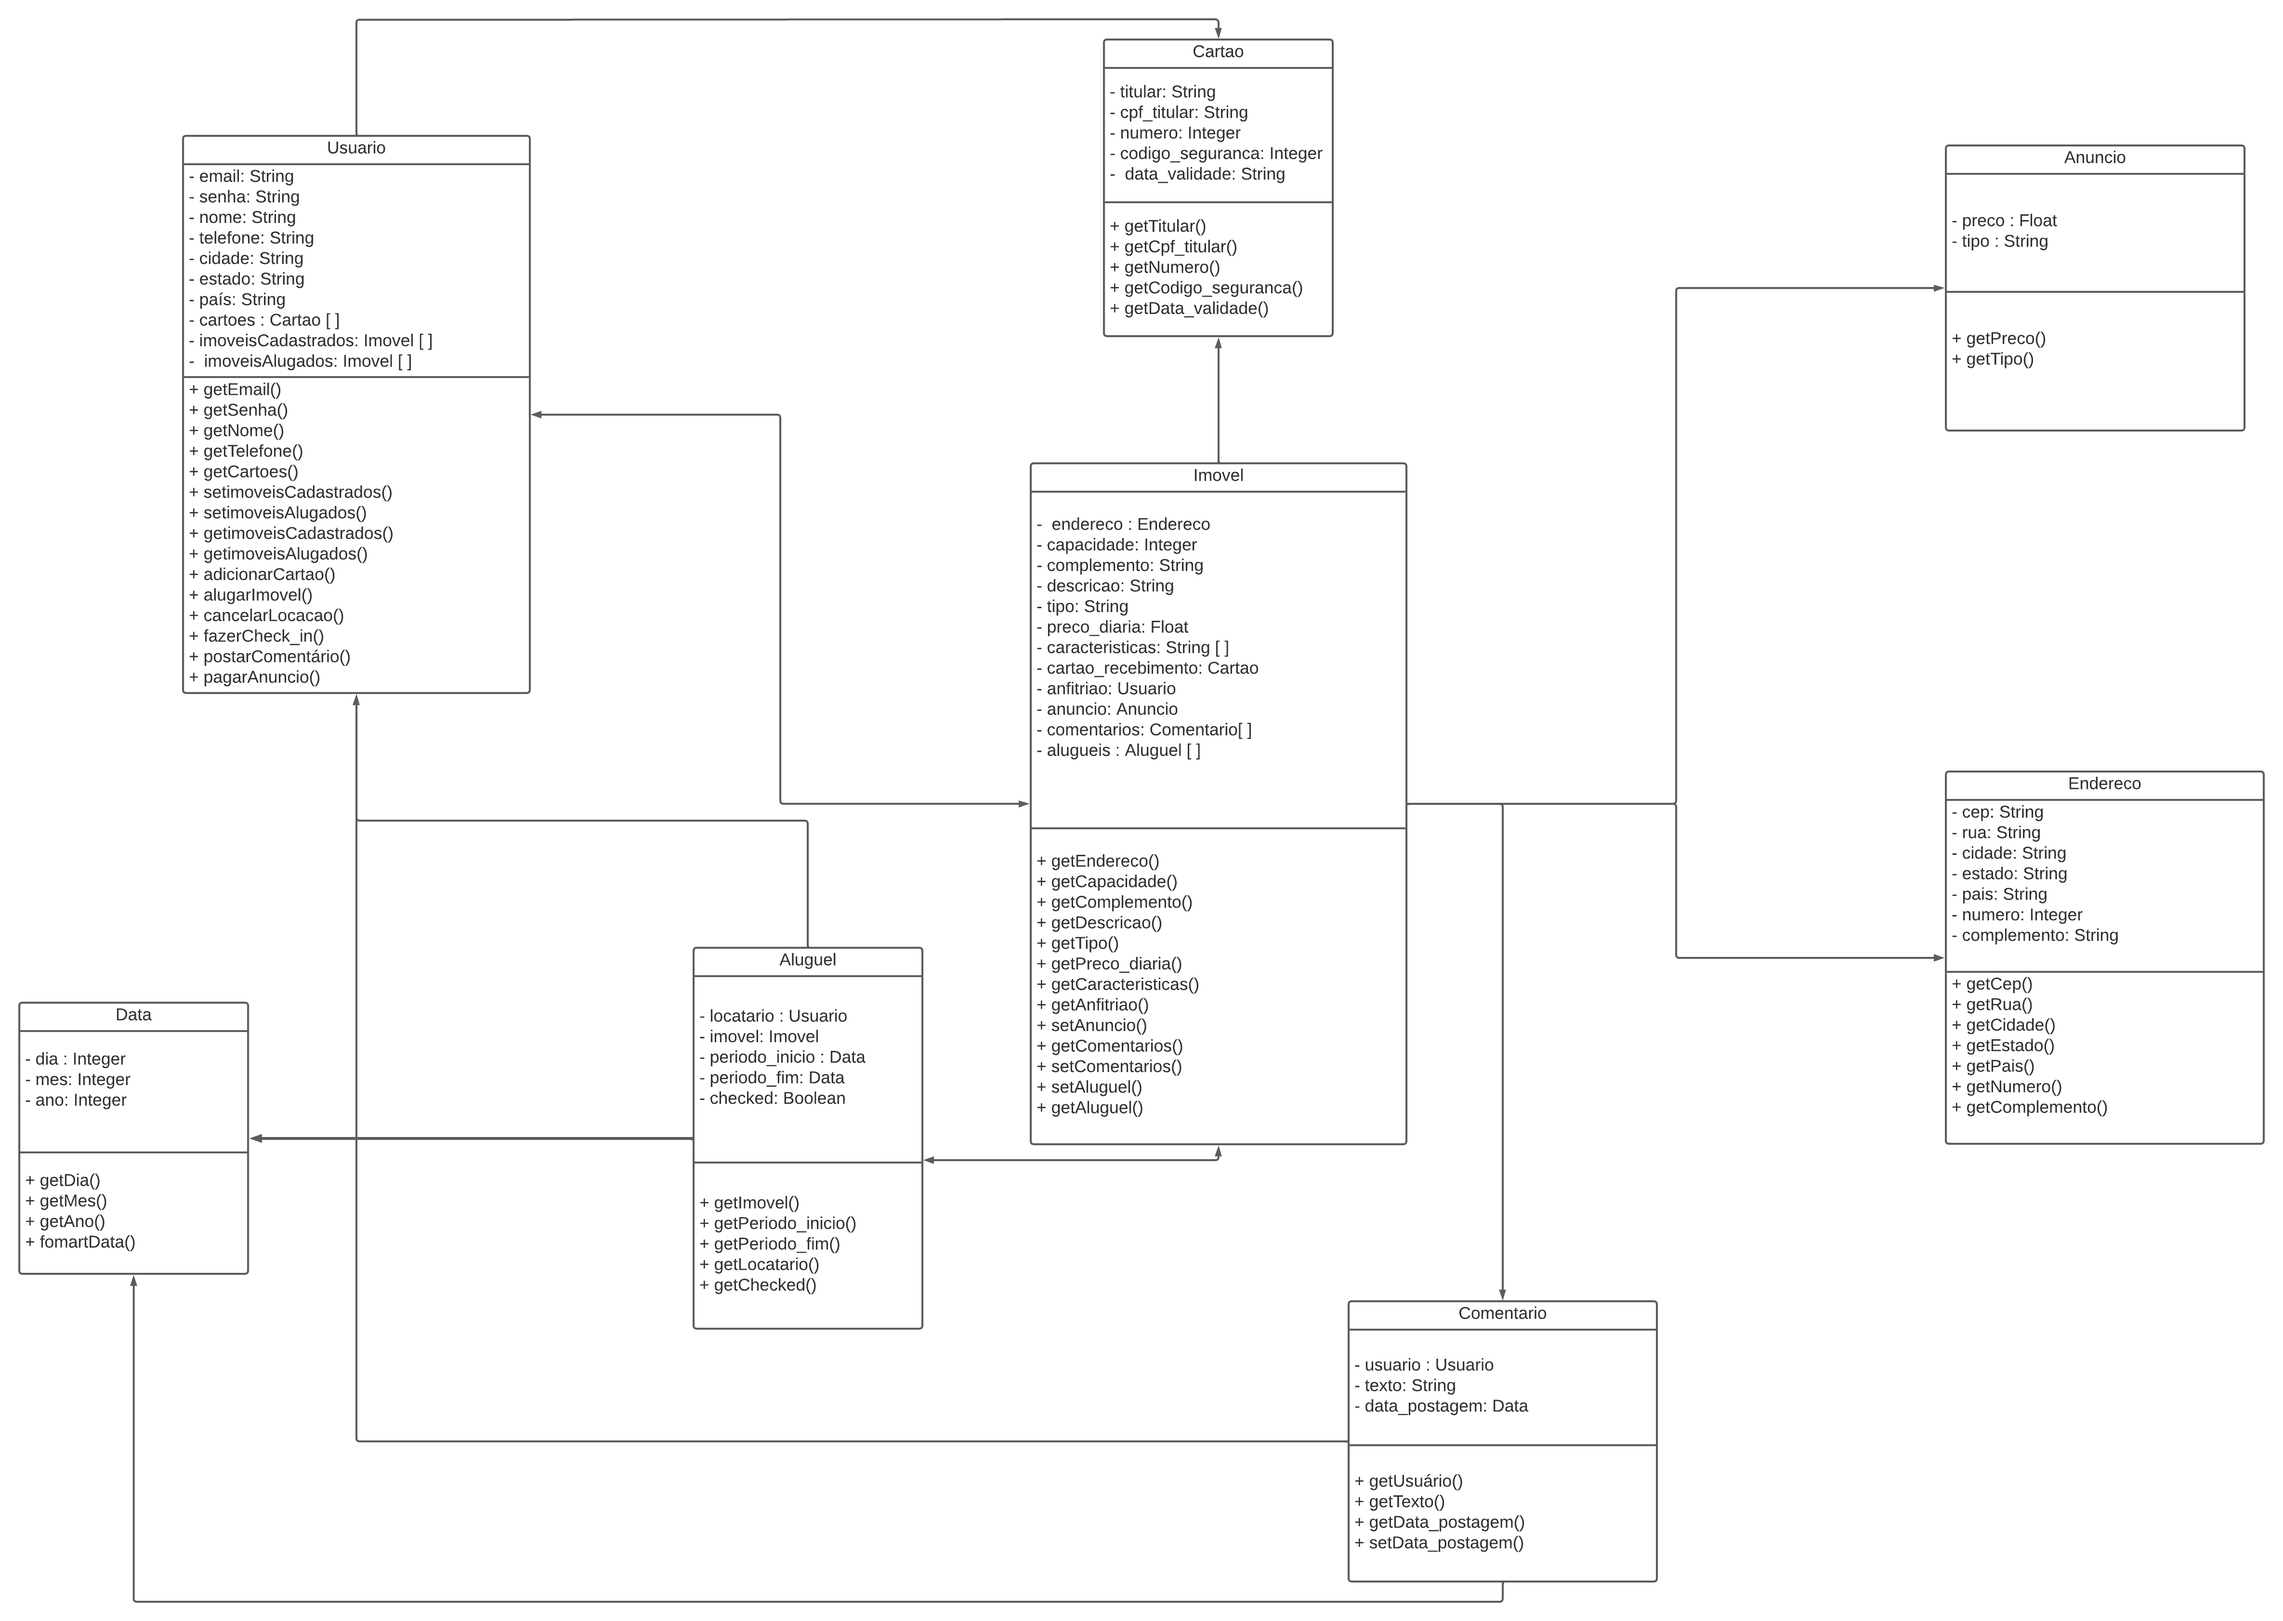
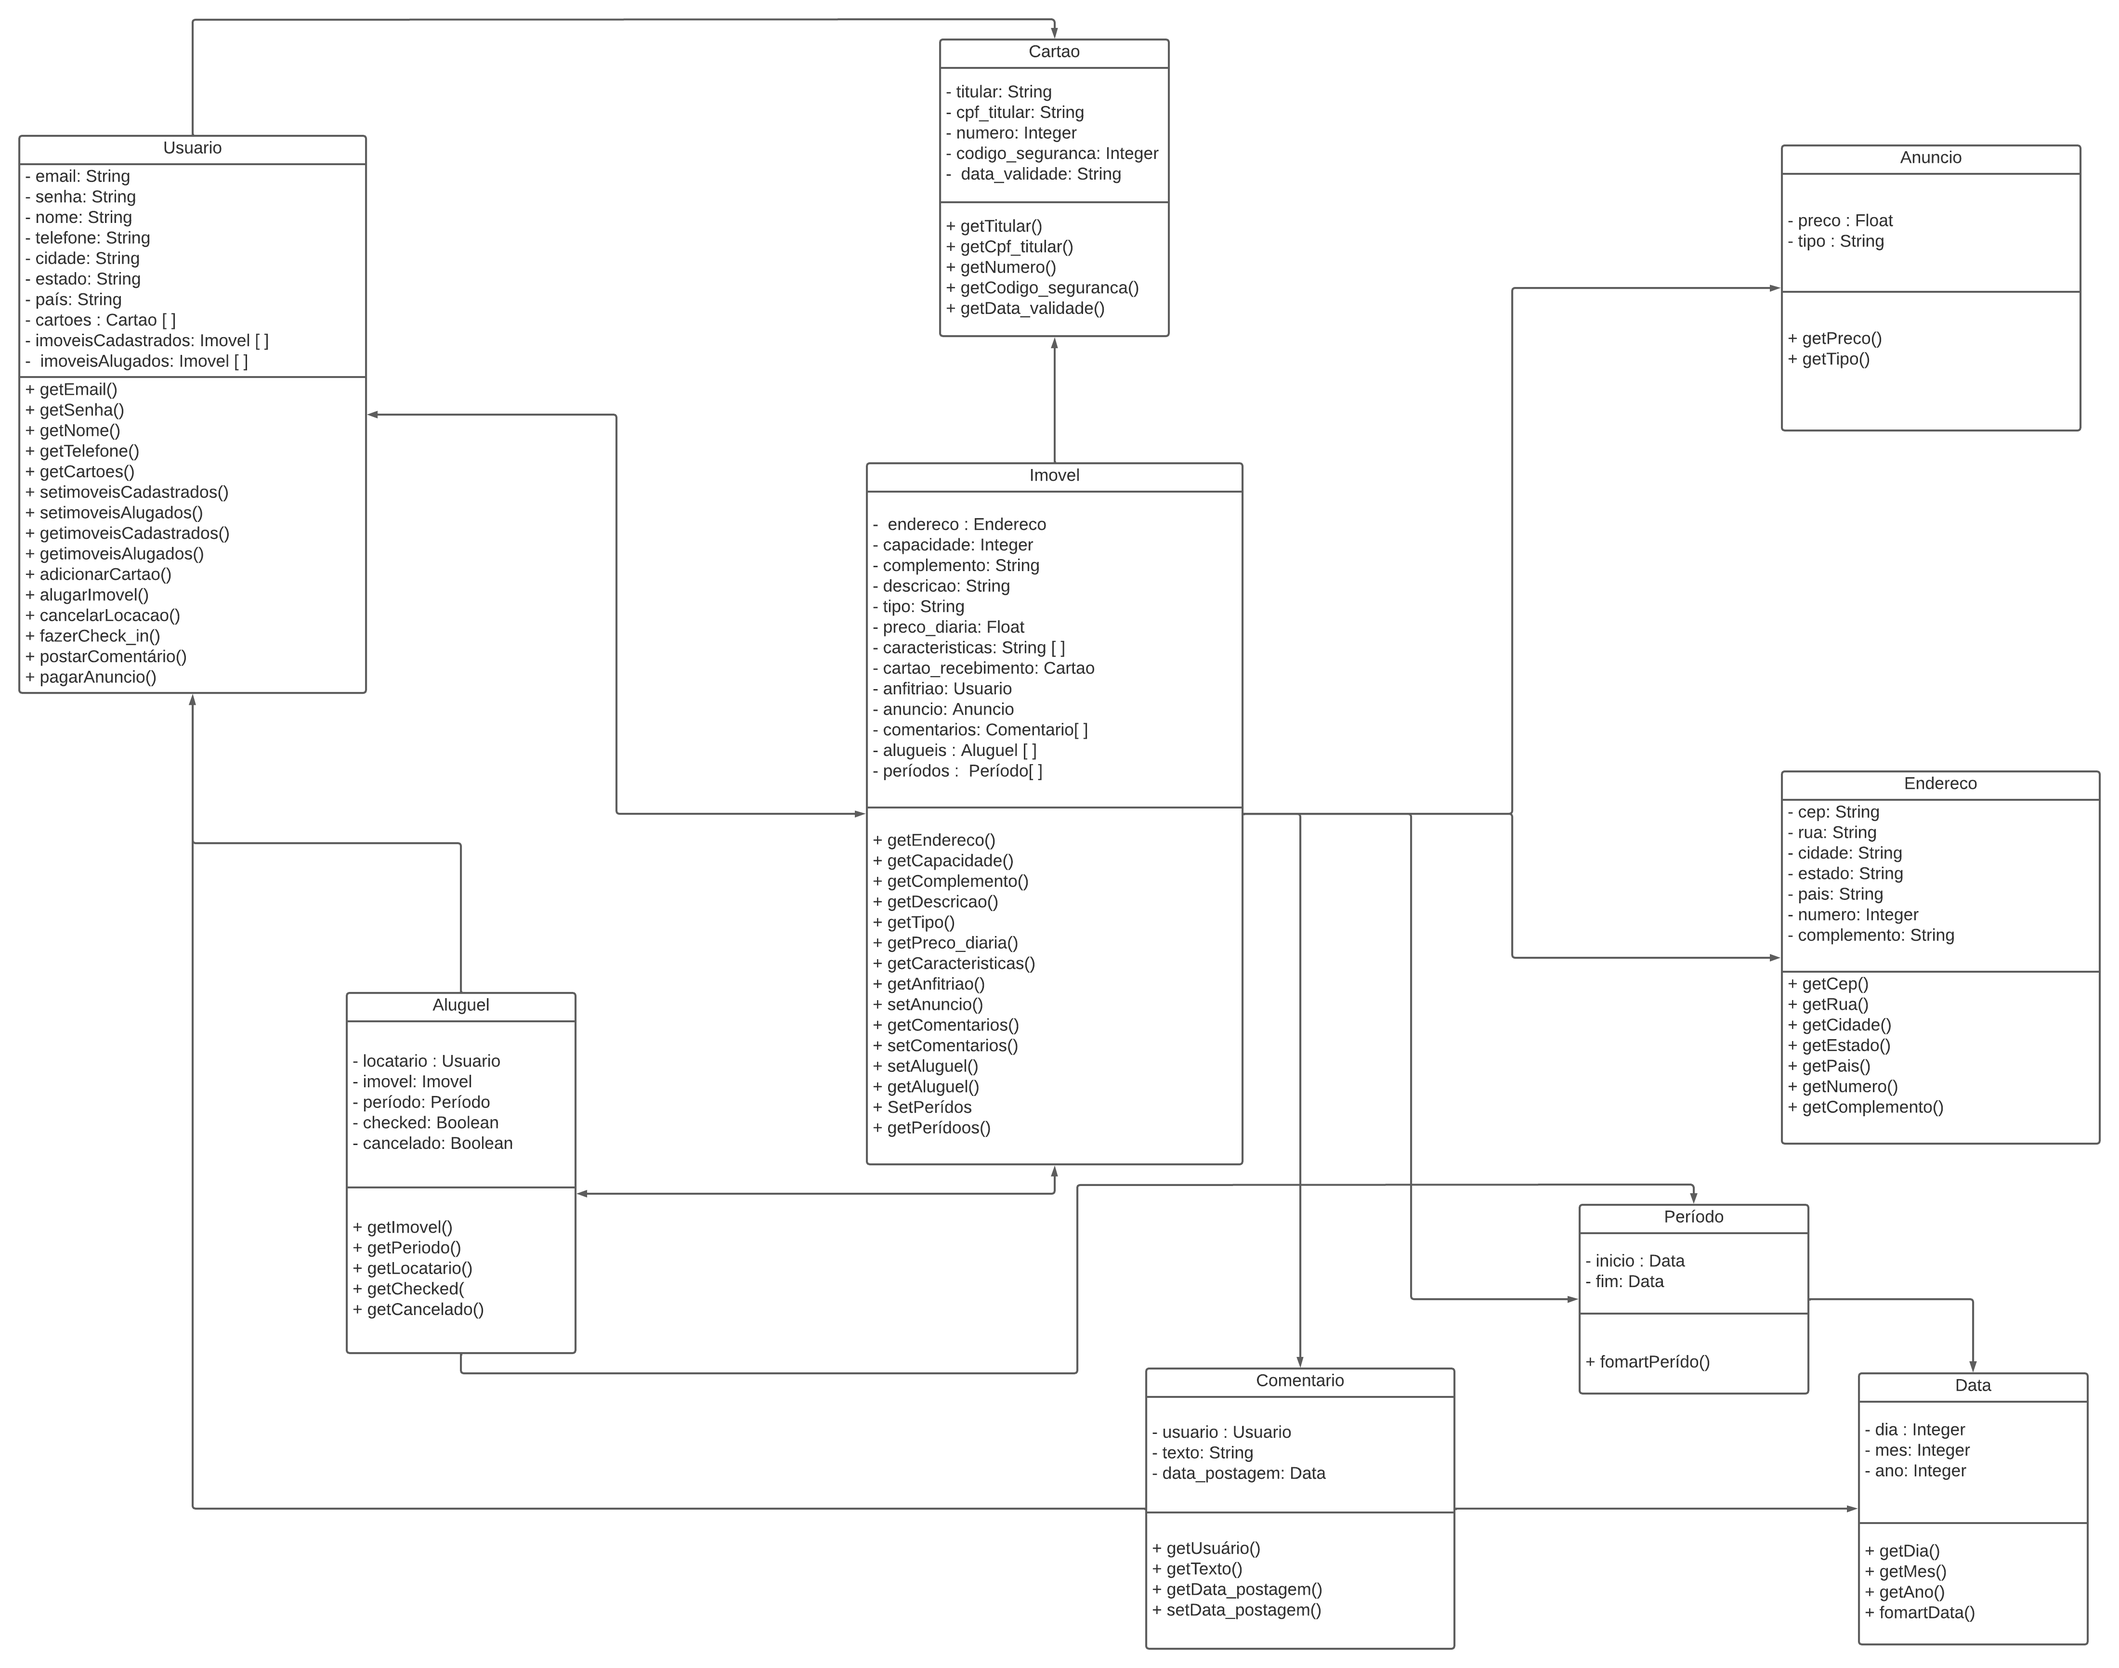
add classPeriodo

diff --git a/model/classes/Periodo.php b/model/classes/Periodo.php
@@ -1,0 +1,54 @@
+<?php
+
+    class Anuncio 
+    {
+        private $inicio;
+        private $fim;
+
+
+        function __construct($inicio , $fim) {
+            $this->inicio = $inicio;
+            $this->fim = $fim;
+        }
+
+        /**
+         * Get the value of inicio
+         */ 
+        public function getInicio()
+        {
+                return $this->inicio;
+        }
+
+        /**
+         * Set the value of inicio
+         *
+         * @return  self
+         */ 
+        public function setInicio($inicio)
+        {
+                $this->inicio = $inicio;
+
+                return $this;
+        }
+
+        /**
+         * Get the value of fim
+         */ 
+        public function getFim()
+        {
+                return $this->fim;
+        }
+
+        /**
+         * Set the value of fim
+         *
+         * @return  self
+         */ 
+        public function setFim($fim)
+        {
+                $this->fim = $fim;
+
+                return $this;
+        }
+    }
+?>    

diff --git a/model/classes/Aluguel.php b/model/classes/Aluguel.php
@@ -7,6 +7,7 @@
         private $periodo_inicio;
         private $periodo_fim;
         private $checked;
+        private $cancelado;
 
       function __construct($locatario , $imovel , $periodo_inicio , $periodo_fim , $checked) {
          $this->locatario = $locatario;
@@ -14,6 +15,7 @@
          $this->periodo_inicio = $periodo_inicio;
          $this->periodo_fim = $periodo_fim;
          $this->checked = false;
+         $this->cancelado = false;
        }
 
       public function setLocatario($locatario)
@@ -70,5 +72,23 @@
       return $this->checked;
      }
 
+        /**
+         * Get the value of cancelado
+         */ 
+        public function getCancelado()
+        {
+                return $this->cancelado;
+        }
 
+        /**
+         * Set the value of cancelado
+         *
+         * @return  self
+         */ 
+        public function setCancelado($cancelado)
+        {
+                $this->cancelado = $cancelado;
+
+                return $this;
+        }
     }

diff --git a/model/classes/Imovel.php b/model/classes/Imovel.php
@@ -13,6 +13,7 @@
         private $anuncio;
         private $comentarios = array();
         private $alugueis = array() ;
+        private $periodos = array() ;
 
         function __construct($endereco , $capacidade , $complemento , $descricao , $tipo , $preco_diaria , $cartao_recebimento , $anfitriao , $anuncio) {
             $this->endereco = $ependereco;
@@ -148,5 +149,25 @@
            return $this->alugueis;
         }
 
+
+        /**
+         * Get the value of periodos
+         */ 
+        public function getPeriodos()
+        {
+                return $this->periodos;
+        }
+
+        /**
+         * Set the value of periodos
+         *
+         * @return  self
+         */ 
+        public function setPeriodos($periodo)
+        {
+                $this->periodos_push($periodo);
+
+                return $this;
+        }
     }
 ?>
